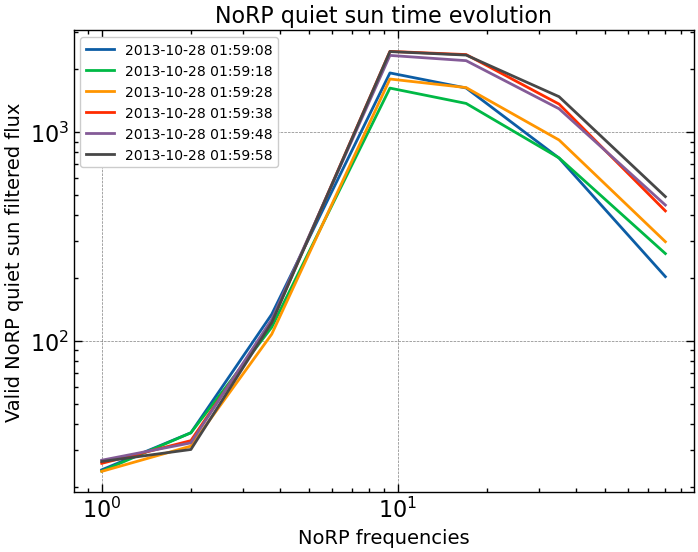
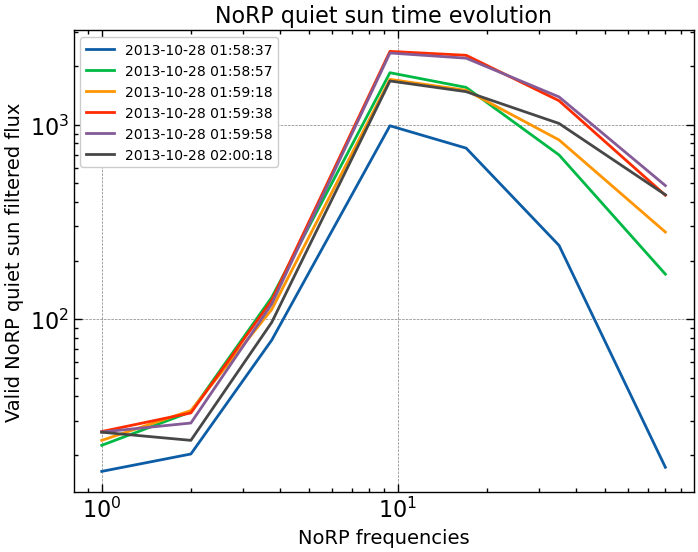
Plotter range fix

diff --git a/data_plotter.py b/data_plotter.py
@@ -38,10 +38,10 @@ def norp_log_plotter(arg):
     # Gain peak value time array index
     peak = (
         np.where(data_norp_tim_valid == data_norp_peak_time)[0][0],  # peak
-        300,  # peak_gap
-        100,  # gap
+        600,  # peak_gap
+        200,  # gap
     )
-    # Plot data range limiter at +- 30s
+    # Plot data range limiter at +- 30s --> peak_gap >= 300
     # Structure - (peak_start, peak_end)
     peak_idx = (
         max(0, peak[0] - peak[1]),  # peak_start
@@ -101,8 +101,8 @@ def rstn_log_plotter(arg):
     peak = (
         np.where(data_apl_tim == data_norp_peak_time)[0][0],  # peak_apl
         np.where(data_phf_tim == data_norp_peak_time)[0][0],  # peak_phf
-        30,  # peak_gap
-        15,  # gap
+        60,  # peak_gap
+        30,  # gap
     )
     # Plot data range limiter at +- 30s
     peak_idx = (
